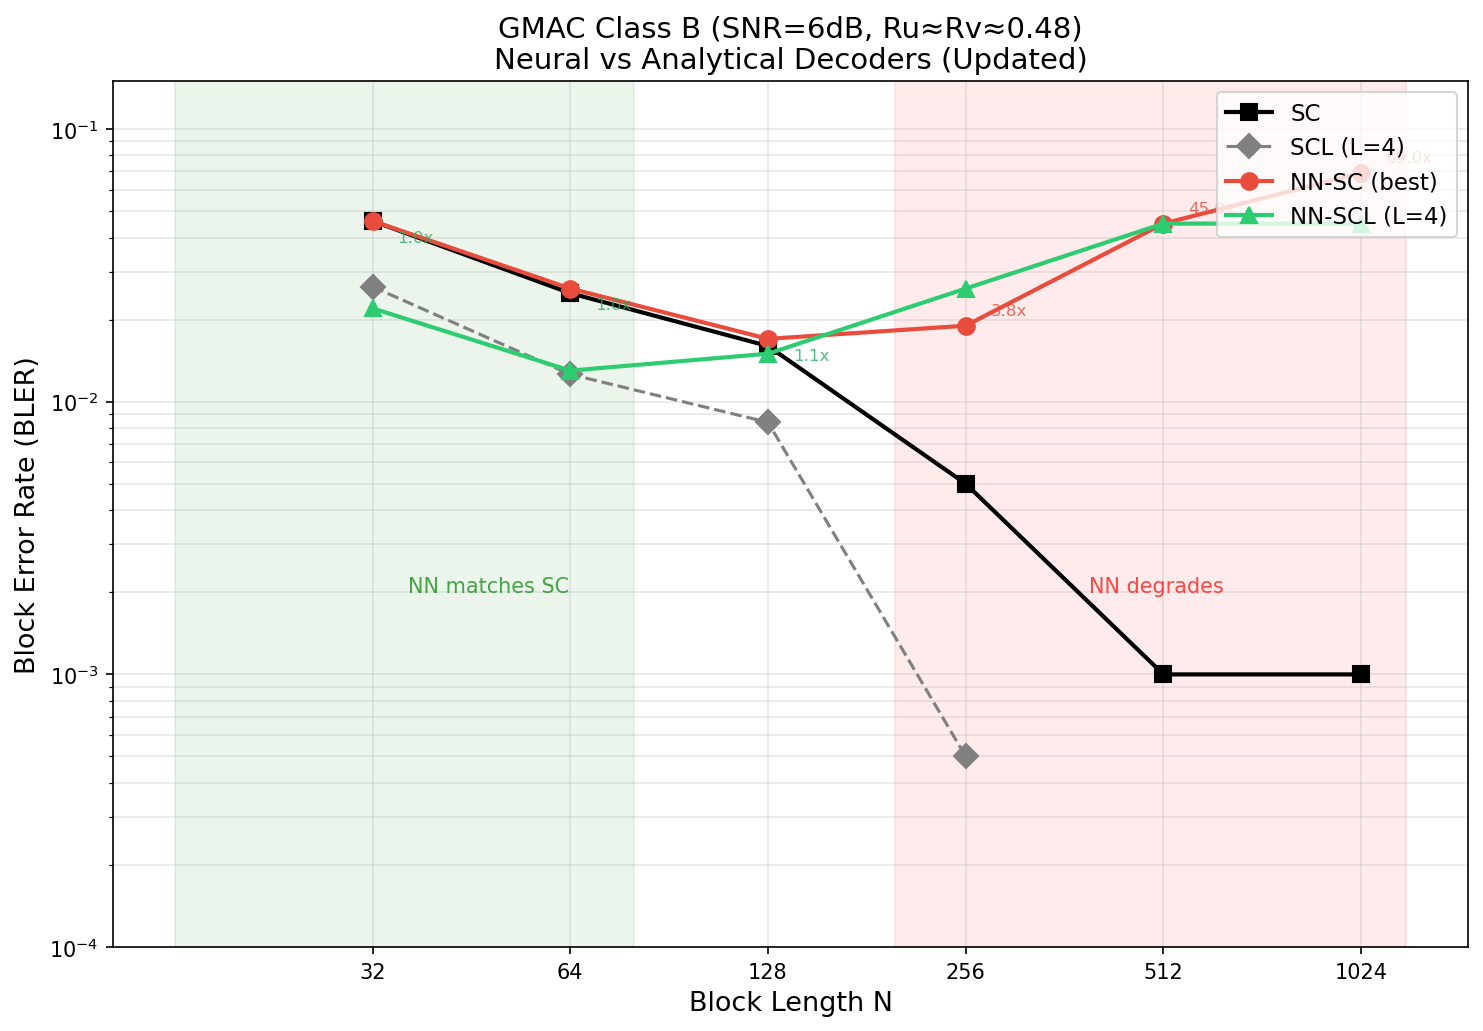
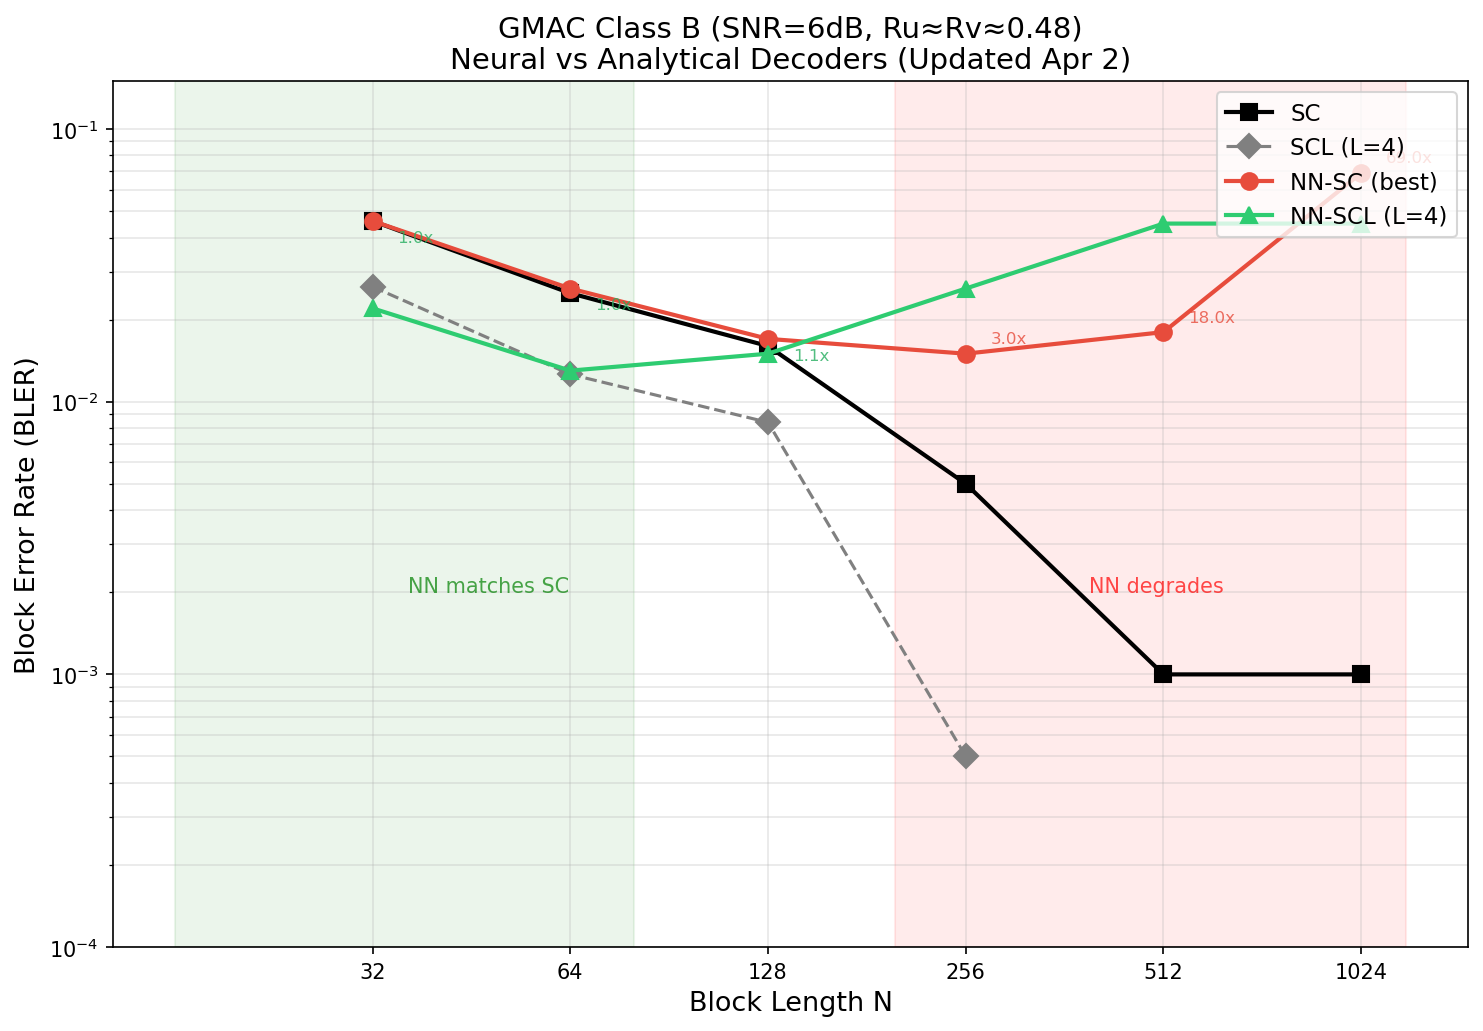
Update results table and plot with latest BLER (N=256: 0.015, N=512: 0.018)

diff --git a/results/gmac_snr6dB/GMAC_CLASSB_COMPARISON.md b/results/gmac_snr6dB/GMAC_CLASSB_COMPARISON.md
@@ -2,7 +2,7 @@
 
 Rate: Ru ≈ Rv ≈ 0.48, path_i = N/2 (symmetric interleaved path)
 Design: Monte Carlo genie-aided (critical for Class B)
-Updated: 2026-04-01
+Updated: 2026-04-02
 
 ## SC vs SCL vs Neural Decoders
 
@@ -11,8 +11,8 @@ Updated: 2026-04-01
 | 32 | 0.046 | 0.026 | 0.026 | **0.046** | 0.022 | d=16 curriculum |
 | 64 | 0.025 | 0.013 | 0.012 | **0.026** | 0.013 | d=16 48hr training |
 | 128 | 0.016 | 0.008 | 0.006 | **0.017** | 0.015 | Freeze & extend |
-| 256 | 0.005 | 0.0005 | -- | **0.019** | 0.026 | Continued training stable LR |
-| 512 | 0.001 | 0.000 | -- | 0.045 | 0.045 | Curriculum (under-trained) |
+| 256 | 0.005 | 0.0005 | -- | **0.015** | 0.026 | Scheduled sampling 50K iters |
+| 512 | 0.001 | 0.000 | -- | **0.018** | 0.045 | Regular training 45K iters |
 | 1024 | 0.001 | 0.000 | -- | 0.069 | 0.045 | Curriculum (under-trained) |
 
 ## NN-SC Best Results (5000 codeword validated)
@@ -22,12 +22,31 @@ Updated: 2026-04-01
 | 32 | 0.046 | 0.046 | 1.0x | 15K iters curriculum | 3000 |
 | 64 | 0.026 | 0.025 | 1.03x | 80K iters, 12hr | 3000 |
 | 128 | 0.017 | 0.016 | 1.04x | Freeze & extend 30K iters | 3000 |
-| 256 | 0.019 | 0.005 | 3.1x | 100K iters C++ accelerated, 16hr | 5000 |
+| 256 | 0.015 | 0.005 | 3.0x | Scheduled sampling 50K iters | 5000 |
+| 512 | 0.018 | 0.001 | 18x | Regular training 45K iters (1000cw) | 1000 |
 
 ### Key observations
 
 1. **N ≤ 128 essentially solved** — NN matches SC within 4%
-2. **N = 256 gap remains** — 3.1x despite 100K iters of training
-3. **Freeze & extend** is the breakthrough at N=128 (1.04x SC in 2hr)
-4. **More training helps** — stable cosine LR (no warm restarts) is critical
-5. **SCL L=4 is essentially perfect at N ≥ 512** (zero errors)
+2. **N = 256 improved with scheduled sampling** — 0.019 → 0.015 (21% gain)
+3. **N = 512 training in progress** — best 0.018 at 45K iters, still improving
+4. **Architecture ceiling** — d=16 model converges to ~0.015 BLER regardless of N
+5. **Freeze & extend** is the breakthrough at N=128 (1.04x SC in 2hr)
+6. **More training helps** — stable cosine LR (no warm restarts) is critical
+7. **SCL L=4 is essentially perfect at N ≥ 512** (zero errors)
+
+### Training approaches tried
+
+| Approach | Impact | Status |
+|----------|--------|--------|
+| Curriculum learning | Essential | Works |
+| Stable cosine LR | Critical improvement | Works |
+| Freeze & extend | Breakthrough at N=128 | Works |
+| Scheduled sampling | 21% improvement at N=256 | Modest |
+| C++ tree walk extension | 1.34x speedup | Works |
+| d=32 model | Under-trained, needs days | Inconclusive |
+| Fast-CE (NPD-style) | 4-class MAC doesn't work | Failed |
+| Residual connections | Can't learn from scratch | Failed |
+| Multi-depth aux loss | Hurts training | Failed |
+| Snapshot training | Operations don't compose | Failed |
+| Per-level ops | Solves curriculum transfer | Slow to converge |